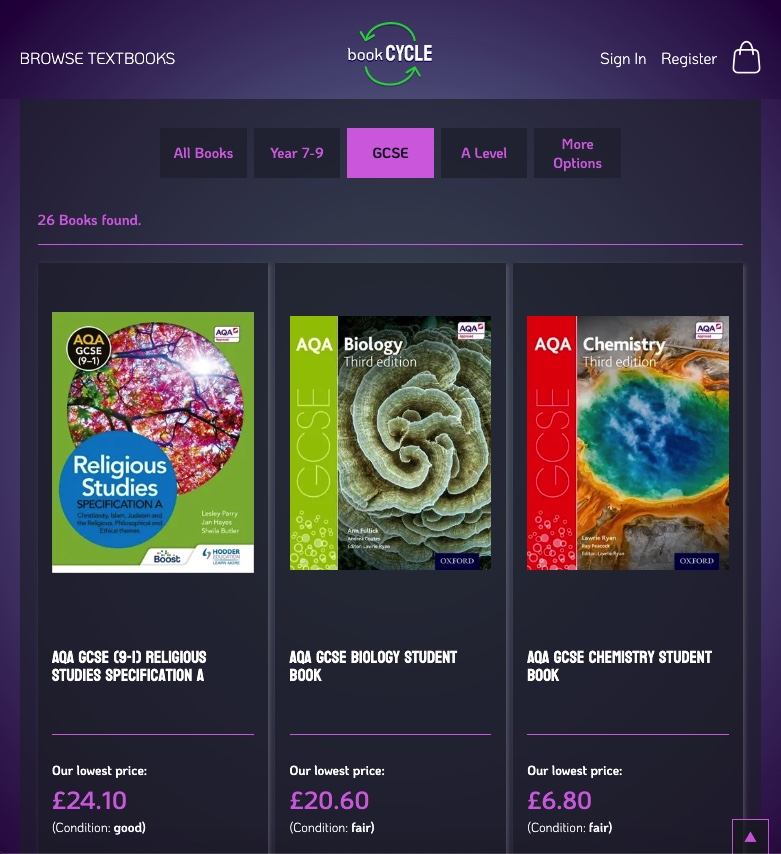
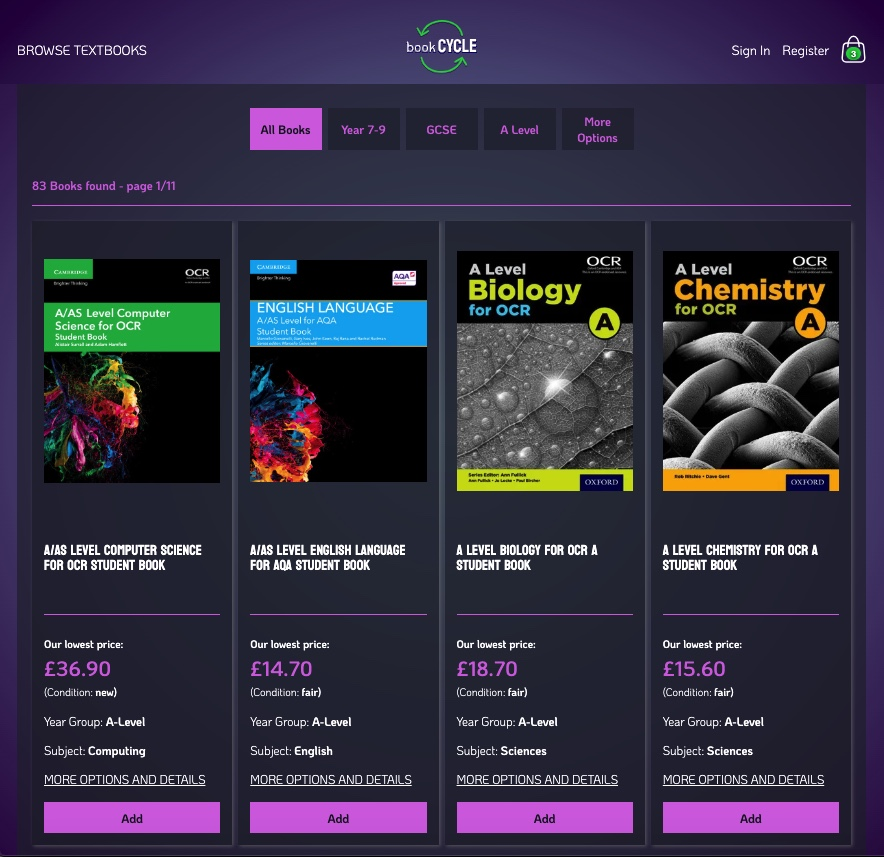
add and update images for readme

diff --git a/README.md b/README.md
@@ -107,11 +107,23 @@ The Landing page is minimalist with only a few options at the top. The side menu
 ### Filtering for books
 
 Users have filtering and searching options from the side menu and additional options on the main bookstore page. Clicking the `shop` button or one of the filtering options from the menu will take us to the bookstore:
-|Book store - light mode| Book store - dark mode |
+| Book store - light mode| Book store - dark mode |
 |:---:|:---:|
-|![Books light mode](readme_files/books-light.jpeg)|![Books dark mode](readme_files/books-dark.jpeg)|
-| <td colspan="2">Under the `More Options` button, complex searching, filtering and sorting can be carried out.
+|![Books light mode](readme_files/books-light.jpeg)|![Books - dark  mode](readme_files/books-dark.jpeg)|
+
+
+Under the `More Options` button, complex searching, filtering and sorting can be carried out.
+| | |
+|:---:|:---:|
 |![Books search light mode](readme_files/books-search-light.jpeg)|![Books search dark mode](readme_files/books-search-dark.jpeg)|
+
+### Book details
+
+The lowest price of the book, its condition (new, good or fair), if it is out of stock or 'in your bag' are all listed among the details of the book.
+||||||
+|:---:|:---:|:---:|:---:|:---:|
+|![Book details](readme_files/book-details-light.jpeg)|![Book details](readme_files/book-details-dark.jpeg)|![Book out of stock](readme_files/book-details-out-of-stock-light.jpeg)|![Book out of stock](readme_files/book-details-out-of-stock-dark.jpeg)|![Book in your bag](readme_files/book-details-in-your-bag.jpeg)|
+
 
 In order to speed up loading, pagination is used to avoid unnecessary data load.
 
@@ -119,7 +131,9 @@ In order to speed up loading, pagination is used to avoid unnecessary data load.
 
 ## Shopping Process
 
-You can start shopping right away, without the need for signing up. You can add products directly from the bookstore's page or by visiting the individual book's page.
+You can start shopping right away, without the need for signing up. You can add products directly from the bookstore's page or by visiting the individual book's page. The number of books in your shopping bag will be shown in the top right corner.
+
+![shopping bag](readme_files/shopping-bag.jpeg)
 
 Stock management allows displaying the available stock to the user and prevents purchasing out-of-stock items.
 
